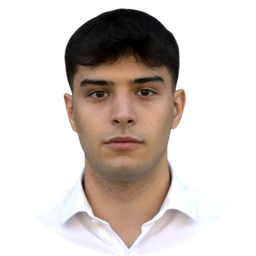
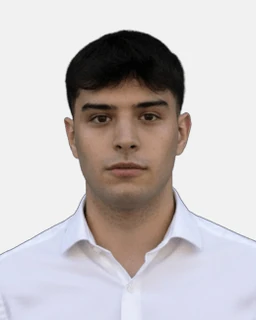
fix(info): update image height from 480 to 600 pixels

diff --git a/src/components/Info.jsx b/src/components/Info.jsx
@@ -52,7 +52,7 @@ function Info() {
                 sizes="(min-width: 900px) 190px, 136px"
                 alt={copy.hero.portraitAlt}
                 width="480"
-                height="480"
+                height="600"
                 decoding="async"
                 fetchPriority="high"
               />
